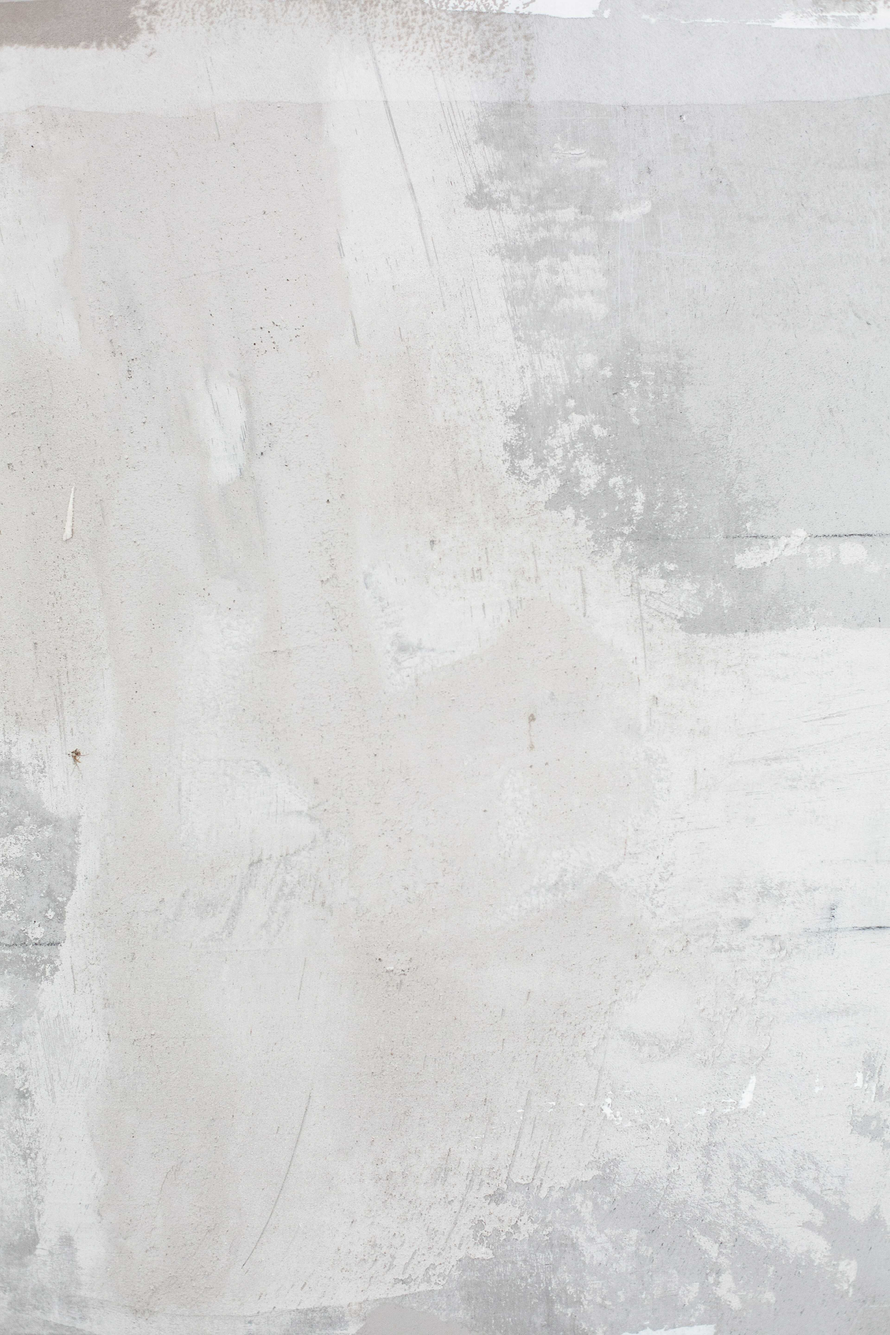
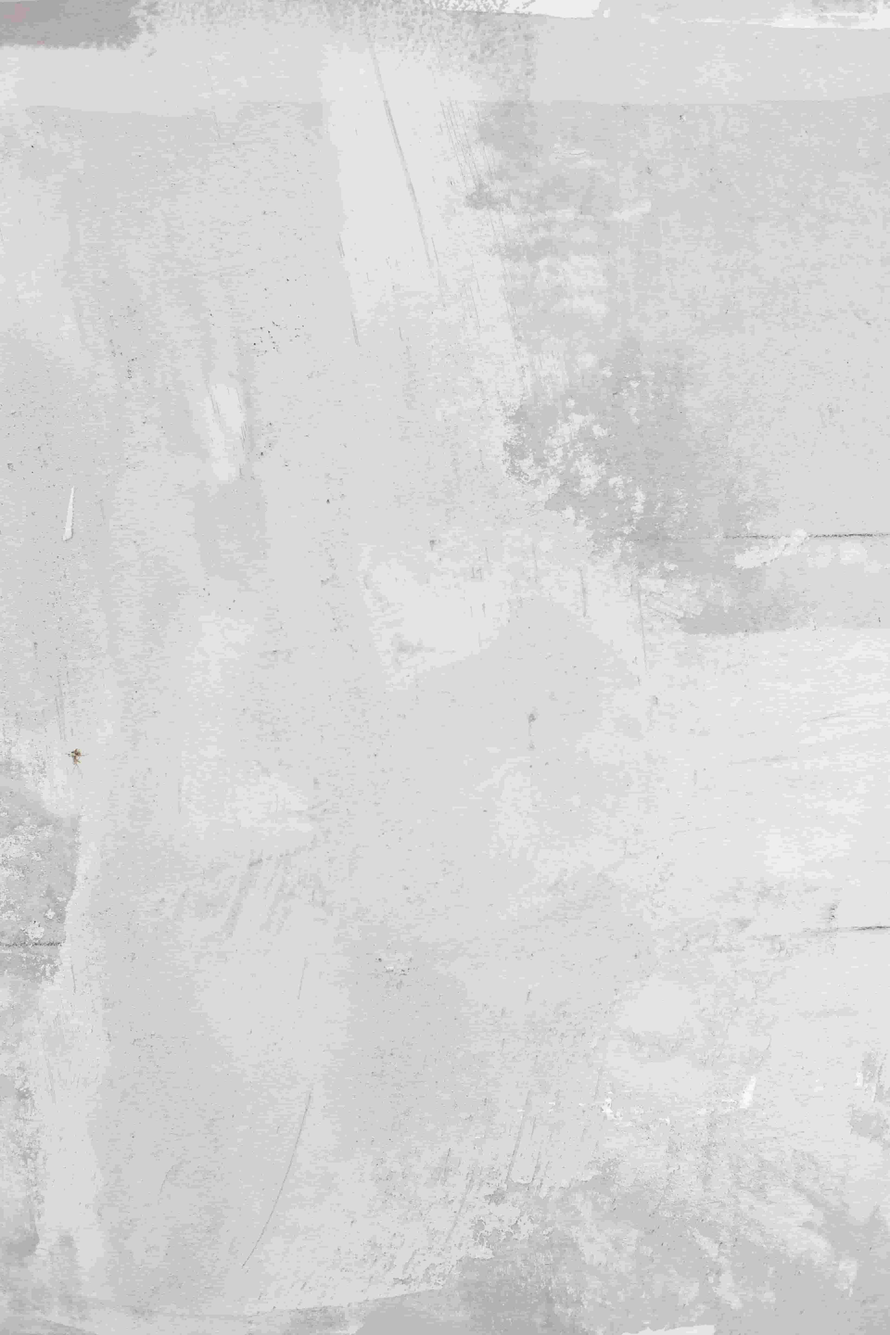
animation and min bg image github styles change

Changed region(s): [[0.0, 0.0, 0.0625, 0.0312], [0.0938, 0.0, 0.125, 0.0312]]

diff --git a/components/NavBar.tsx b/components/NavBar.tsx
@@ -9,14 +9,25 @@ function NavBar({ handleSetRef }) {
     <>
       <header className={styles.navbar}>
         <div>
-          <h2 className={styles.headingText}>Hola, soy Gregorio Vargas M.</h2>
+          <h2 className={styles.headingText + " " + styles.show1}>
+            Hola, soy Gregorio Vargas Marrero
+          </h2>
           <h4 className={styles.subtitleText}>
-            Soy Front-end Developer tengo 20 años, soy de República Dominicana y
-            me especializo en utilizar tecnologías como HTML, CSS, Javascript,
-            React, entre otras. Programar es mi pasión y me gusta aprender más
-            en mi dia a dia.
+            <span className={styles.show2}>
+              Soy Front-end Developer tengo 20 años, soy de Barahona, República{" "}
+            </span>
+            <span className={styles.show3}>
+              Dominicana y me especializo en utilizar tecnologías como HTML,
+            </span>{" "}
+            <span className={styles.show4}>
+              CSS, Javascript, React, entre otras. Programar es mi pasión y me
+              gusta{" "}
+            </span>
+            <span className={styles.show5}>aprender más en mi dia a dia.</span>
           </h4>
-          <i className="fas fa-chevron-down" onClick={handleScroll}></i>
+          <span className={styles.show6}>
+            <i className="fas fa-chevron-down" onClick={handleScroll}></i>
+          </span>
         </div>
 
         <nav className={styles.mt}>
@@ -27,7 +38,7 @@ function NavBar({ handleSetRef }) {
                 handleSetRef("projects");
               }}
             >
-              <li>Proyectos</li>
+              <li className={styles.show7}>Proyectos</li>
             </a>
             <a
               href="#"
@@ -35,7 +46,7 @@ function NavBar({ handleSetRef }) {
                 handleSetRef("skills");
               }}
             >
-              <li>Habilidades</li>
+              <li className={styles.show8}>Habilidades</li>
             </a>
             <a
               href="#"
@@ -43,7 +54,7 @@ function NavBar({ handleSetRef }) {
                 handleSetRef("github");
               }}
             >
-              <li>GitHub</li>
+              <li className={styles.show9}>GitHub</li>
             </a>
             <a
               href="#"
@@ -51,7 +62,7 @@ function NavBar({ handleSetRef }) {
                 handleSetRef("contact");
               }}
             >
-              <li>Contácto</li>
+              <li className={styles.show10}>Contácto</li>
             </a>
           </ul>
         </nav>

diff --git a/styles/GitHub.module.scss b/styles/GitHub.module.scss
@@ -1,5 +1,7 @@
 @import "./Variables.scss";
 
+/*
+
 .container {
   background-color: map-get($map: $palette, $key: "primary");
   padding: 1em 0;
@@ -72,6 +74,97 @@
     }
     p {
       text-align: center;
+    }
+  }
+}
+
+@media (max-width: 800px) {
+  .container {
+    & > div {
+      width: 90%;
+    }
+  }
+}
+
+*/
+
+.container {
+  background-color: map-get($map: $palette, $key: "primary");
+  color: white;
+  padding: 1em;
+  margin-bottom: 4em;
+  font-size: $font;
+  text-align: center;
+  & > div {
+    width: 50%;
+    margin: 1em auto;
+    background-color: rgba($color: #000000, $alpha: 0.15);
+    border-radius: 0.2em;
+    overflow: hidden;
+
+    text-align: center;
+
+    img {
+      border-radius: 50%;
+      width: 25%;
+      border: 5px solid;
+      animation: border 1s linear infinite alternate;
+      transition: all 0.5s ease-in-out;
+      margin-top: 1em;
+
+      @keyframes border {
+        0% {
+          border-color: lighten(
+            $color: map-get($map: $palette, $key: "secondary"),
+            $amount: 5
+          );
+        }
+        100% {
+          border-color: lighten(
+            $color: map-get($map: $palette, $key: "secondary"),
+            $amount: 10
+          );
+        }
+      }
+    }
+
+    a {
+      padding: 1em;
+      background-color: map-get($map: $palette, $key: "secondary");
+      display: block;
+      margin-top: 0.2em;
+      box-shadow: 0 0.2em 0.2em rgba($color: #000000, $alpha: 0.15);
+      &:hover {
+        background-color: lighten(
+          $color: map-get($map: $palette, $key: "secondary"),
+          $amount: 10
+        );
+      }
+    }
+  }
+
+  &:hover {
+    & > div > a {
+      animation: letter 0.5s ease-in-out forwards;
+
+      @keyframes letter {
+        0% {
+          letter-spacing: 0px;
+          color: white;
+        }
+        50% {
+          letter-spacing: 3px;
+          color: darken($color: white, $amount: 10);
+          background-color: lighten(
+            $color: map-get($map: $palette, $key: "secondary"),
+            $amount: 10
+          );
+        }
+        100% {
+          letter-spacing: 0px;
+          color: white;
+        }
+      }
     }
   }
 }

diff --git a/styles/Contact.module.scss b/styles/Contact.module.scss
@@ -30,12 +30,9 @@
     margin: 0 auto;
     background-color: map-get($map: $palette, $key: "primary");
     overflow: hidden;
-    border-right: 0.25em solid
-      darken($color: map-get($map: $palette, $key: "primary"), $amount: 10);
-    border-bottom: 0.25em solid
-      darken($color: map-get($map: $palette, $key: "primary"), $amount: 8);
-    border-left: 0.25em solid
-      darken($color: map-get($map: $palette, $key: "primary"), $amount: 10);
+    border-right: 0.25em solid map-get($map: $palette, $key: "secondary");
+    border-bottom: 0.25em solid map-get($map: $palette, $key: "secondary");
+    border-left: 0.25em solid map-get($map: $palette, $key: "secondary");
     border-top: 0.25em solid
       lighten($color: map-get($map: $palette, $key: "primary"), $amount: 10);
     box-shadow: 0.2em 0.2em 0.5em rgba(#000000, 0.2);
@@ -60,13 +57,16 @@
       width: 100%;
       padding: 1em 0;
       border: 0;
-      background-color: rgba(#000000, 0.2);
+      background-color: map-get($map: $palette, $key: "secondary");
       color: white;
       font-size: $font;
       cursor: pointer;
       margin-top: 0.2em;
       &:hover {
-        background-color: rgba(#000000, 0.3);
+        background-color: darken(
+          $color: map-get($map: $palette, $key: "secondary"),
+          $amount: 10
+        );
         color: white;
       }
     }

diff --git a/components/Layout.tsx b/components/Layout.tsx
@@ -27,12 +27,14 @@ function Layout({ children }: { children: React.ReactNode }) {
         </p>
         <div>
           <span>gregoriovargasmarrero@gmail.com</span>
-          <a href="https://github.com/Gregor-VM" target="_blank">
-            <i className="fab fa-github" title="GITHUB"></i>
-          </a>
-          <a href="https://wa.me/+18498585600" target="_blank">
-            <i className="fab fa-whatsapp" title="WHATSAPP"></i>
-          </a>
+          <div>
+            <a href="https://github.com/Gregor-VM" target="_blank">
+              <i className="fab fa-github" title="GITHUB"></i>
+            </a>
+            <a href="https://wa.me/+18498585600" target="_blank">
+              <i className="fab fa-whatsapp" title="WHATSAPP"></i>
+            </a>
+          </div>
         </div>
       </footer>
     </ViewProjectModal>

diff --git a/components/GitHub.tsx b/components/GitHub.tsx
@@ -16,12 +16,13 @@ function GitHub({ currentRef, handleSetRef }) {
   const user: User = useSelector((state) => state["user"].user);
   const ref: React.LegacyRef<HTMLDivElement> = useRef();
   useScrollRefProp(ref, handleSetRef, currentRef, "github");
+
   return (
     <div className={styles.container} ref={ref}>
+      <h1>
+        GitHub <i className="fab fa-github"></i>
+      </h1>
       <div>
-        <h1>
-          GitHub <i className="fab fa-github"></i>
-        </h1>
         <img src={user.avatar_url}></img>
         <h2>{user.name}</h2>
         <small>Username: {user.login}</small>

diff --git a/styles/globals.scss b/styles/globals.scss
@@ -41,6 +41,9 @@ footer {
   justify-content: space-between;
   align-items: center;
   & > div {
+    display: flex;
+    flex-direction: row;
+    align-items: center;
     i {
       padding: 0.5em;
       font-size: 23px;
@@ -52,8 +55,17 @@ footer {
   }
 }
 
-@media (max-width: 540px) {
+@media (max-width: 664px) {
   footer {
     flex-direction: column;
+  }
+}
+
+@media (max-width: 500px) {
+  footer {
+    & > div {
+      display: flex;
+      flex-direction: column;
+    }
   }
 }

diff --git a/styles/Home.module.scss b/styles/Home.module.scss
@@ -73,6 +73,26 @@
     }
   }
 }
+$prefix: "show";
+
+@mixin show($end) {
+  @for $i from 1 to $end {
+    .#{$prefix}#{$i} {
+      opacity: 0;
+      animation: appear 0.2s ease (($i / 5) + s) forwards;
+      @keyframes appear {
+        0% {
+          opacity: 0;
+        }
+        100% {
+          opacity: 1;
+        }
+      }
+    }
+  }
+}
+
+@include show(11);
 
 @media (max-width: 543px) {
   .bar {

diff --git a/components/Contact.tsx b/components/Contact.tsx
@@ -74,7 +74,7 @@ function Contact({ currentRef, handleSetRef }) {
           onChange={({ target: { value } }) => setMessage(value)}
           placeholder="Escribe tu mensaje..."
           id="message"
-          rows={7}
+          rows={10}
         ></textarea>
         <Alert msg={msg.msg} variant={msg.variant} handleClose={handleClose} />
         <button type="submit">Enviar</button>

diff --git a/components/ViewProjectModal.tsx b/components/ViewProjectModal.tsx
@@ -24,7 +24,7 @@ function ViewProjectModal({ children }: { children: React.ReactNode }) {
     setTimeout(() => {
       dispatch(viewActions.setView(false));
       setIsClosing(false);
-    }, 190);
+    }, 200);
   };
 
   useEffect(() => {
